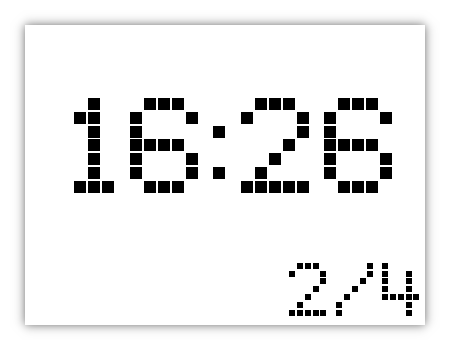
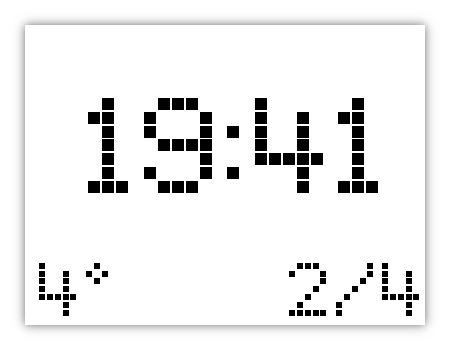
Add weather support (only temperature)

diff --git a/clock.py b/clock.py
@@ -1,69 +1,88 @@
 #!/usr/bin/env python3
 # -*- coding: utf-8 -*-
 
-import sys
 import os
+import typer
+import json
+import urllib.request
 from datetime import datetime
 from inky.what import InkyWHAT
 
 from PIL import Image, ImageFont, ImageDraw
 
-DEBUG=len(sys.argv) >= 2 and sys.argv[1] == 'debug'
 
-# Set up the correct display and scaling factors
-if DEBUG:
-    class MockInky:
-        WHITE='white'
-        BLACK='black'
-        RED='red'
-        width=400
-        height=300
-    inky_display = MockInky()
-else:
-    inky_display = InkyWHAT(colour = 'black') # Using `black` only to speed up the display refresh rate
-    inky_display.set_border(inky_display.WHITE)
+def cur_temp(api_key: str, lat: float, lon: float):
+    url = f'https://api.openweathermap.org/data/2.5/weather?lat={lat}&lon={lon}&appid={api_key}'
+    response = urllib.request.urlopen(url)
+    result = json.loads(response.read().decode('utf-8'))
+    return result["main"]["temp"] - 273.15 # Kelvin to Celsius
 
-WIDTH = inky_display.width
-HEIGHT = inky_display.height
 
-# Create a new canvas to draw on
-img = Image.new("P", (WIDTH, HEIGHT))
-draw = ImageDraw.Draw(img)
-draw.rectangle(
-    [
-        0,
-        0,
-        WIDTH,
-        HEIGHT
-    ], fill=inky_display.WHITE)
+def build_img(inky_display, cur_temp: str):
+    WIDTH = inky_display.width
+    HEIGHT = inky_display.height
 
-def draw_center(height, text, font, align='center', margin=10, color=inky_display.BLACK):
-    x, y, w, h = font.getbbox(text)
-    w += x
-    if align == 'center':
-        width = WIDTH//2 - w//2
-    elif align == 'right':
-        width = WIDTH - w - margin
-    elif align == 'left':
-        width = margin
-    draw.text((width, height), text, fill=color, font=font)
+    # Create a new canvas to draw on
+    img = Image.new("P", (WIDTH, HEIGHT))
+    draw = ImageDraw.Draw(img)
+    draw.rectangle(
+        [
+            0,
+            0,
+            WIDTH,
+            HEIGHT
+        ], fill=inky_display.WHITE)
 
-now = datetime.now()
-time = now.strftime('%H:%M')
-date = now.strftime(f'{now.day}/{now.month}')
+    def draw_text(height, text, font, align='center', margin=10, color=inky_display.BLACK):
+        x, y, w, h = font.getbbox(text)
+        w += x
+        h += y
+        if align == 'center':
+            width = WIDTH//2 - w//2
+        elif align == 'right':
+            width = WIDTH - w - margin
+        elif align == 'left':
+            width = margin
+        draw.text((width, height), text, fill=color, font=font)
+        return (width, height, w, h)
 
-font_path = os.path.join(os.path.dirname(os.path.realpath(__file__)), "fonts/ChessType.ttf")
+    now = datetime.now()
+    time = now.strftime('%H:%M')
+    date = now.strftime(f'{now.day}/{now.month}')
 
-draw_center(60, time, ImageFont.truetype(font_path, 125))
-draw_center(230, date, ImageFont.truetype(font_path, 70), align='right', margin=5)
+    font_path = os.path.join(os.path.dirname(os.path.realpath(__file__)), "fonts/ChessType.ttf")
 
-# TODO: Add temp
-# https://api.openweathermap.org/data/2.5/weather?lat=...&lon=...&appid={api-key}
+    draw_text(60, time, ImageFont.truetype(font_path, 125))
+    draw_text(230, date, ImageFont.truetype(font_path, 70), align='right', margin=5)
+    
+    neg = '–' if cur_temp < 0 else '' # Have to use a different dash as regular `-` is not supported by the font
+    draw_text(230, f'{neg}{abs(round(cur_temp))}°', ImageFont.truetype(font_path, 70), align='left', margin=5)
+    return img
 
-if DEBUG:
-    img = img.convert("RGB")
-    img.show()
-else:
-    # Display the completed canvas on Inky wHAT
-    inky_display.set_image(img)
-    inky_display.show()
+def main(weather_api_key: str, lat: float, lon: float, debug: bool = False):
+    if debug:
+        class MockInky:
+            WHITE='white'
+            BLACK='black'
+            RED='red'
+            width=400
+            height=300
+        inky_display = MockInky()
+    else:
+        inky_display = InkyWHAT(colour = 'black') # Using `black` only to speed up the display refresh rate
+        inky_display.set_border(inky_display.WHITE)
+
+    temp = cur_temp(weather_api_key, lat, lon)
+    img = build_img(inky_display, temp)
+    
+    if debug:
+        img = img.convert("RGB")
+        img.show()
+    else:
+        # Display the completed canvas on Inky wHAT
+        inky_display.set_image(img)
+        inky_display.show()
+
+if __name__ == "__main__":
+    typer.run(main)
+

diff --git a/README.md b/README.md
@@ -16,13 +16,20 @@ It shows the rendered image like this:
 
 ## Setup
 
-I used [Raspberry Pi Zero W](https://www.raspberrypi.com/products/raspberry-pi-zero-w/) so I had to solder the header pins and then connect it to the display. It wasn't hard and there are a few tutorial for it. I also installed a minimal terminal only Pi OS and connected on it using SSH but there are other ways to do work with your Pi.
+I used [Raspberry Pi Zero W](https://www.raspberrypi.com/products/raspberry-pi-zero-w/) so I had to solder the header pins and then connect it to the display. There are a few tutorial for it, it's easy. I also installed a minimal Pi OS on my Raspberry Pi and connected to it using SSH but there are other ways to work with your Pi.
 
-To deploy on your Raspberry Pi:
+To load weather information you need to:
 
-1. Install Inky's: `curl https://get.pimoroni.com/inky | bash`
-1. Copy [clock.py](clock.py) and [fonts](./fonts) folder (or only the used font in the script) to your Pi
-1. Setup cron to run it every minute:
+1. [Sign up](https://home.openweathermap.org/users/sign_up) with open weather API to get your `wather-api-key`. It's free.
+2. Use Google map to [get your location latitude and longitude](https://www.wikihow.com/Get-Latitude-and-Longitude-from-Google-Maps).
+
+Then deploy the script on your Raspberry Pi:
+
+1. Install Inky's: `curl https://get.pimoroni.com/inky | bash`.
+2. Install dependencies: `pip install typer`.
+3. Copy [clock.py](clock.py) and [fonts](./fonts) folder (or only the used font in the script) to your Pi.
+4. Setup cron to run it every minute:
     - `sudo crontab -e`
-    - Add this line at the end of the opened file and save it: `* * * * * python {clock.py-absolute-path}`
-1. You've got a clock and a script that can update its display. Limitation is your imagination!
+    - Add this line at the end of the opened file and save it: `* * * * * python {clock.py-absolute-path} -- {weather-api-key} {latitude} {longitude}` (don't forget `--`, otherwise negative numbers for lat and long parameter wouldn't work)
+5. You've got a clock and a script that can update its display. Limitation is your imagination!
+
